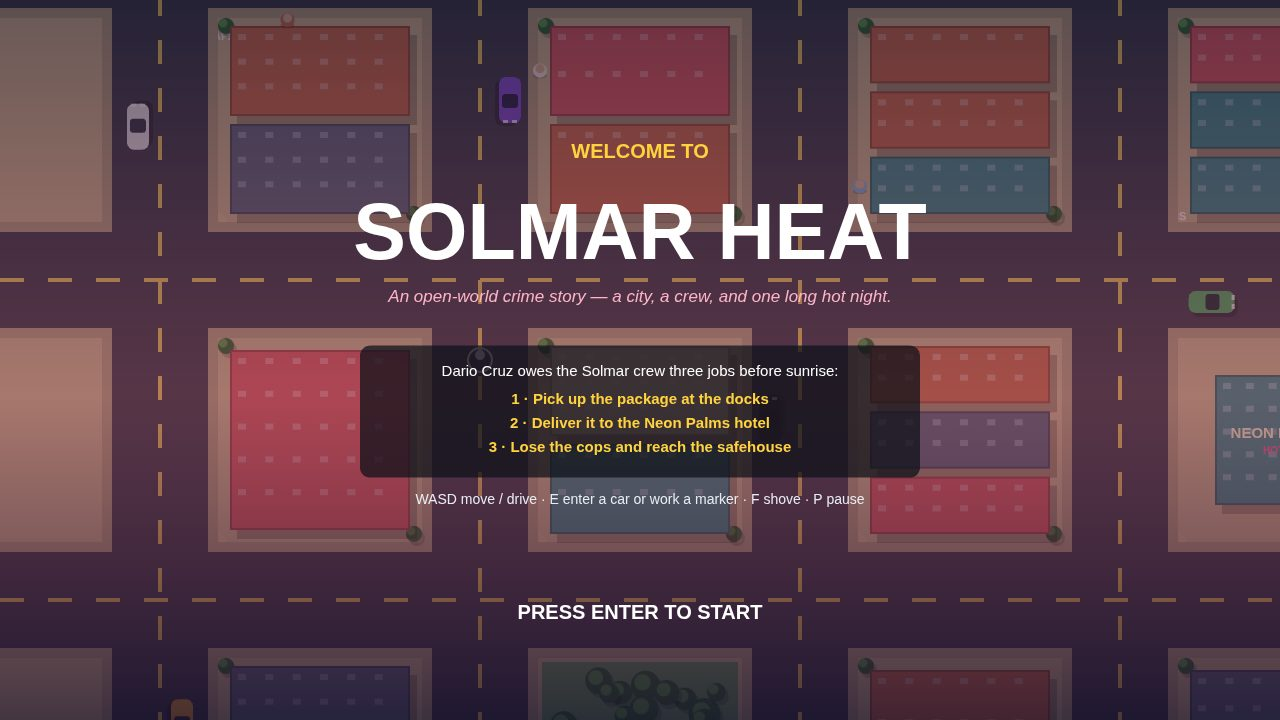
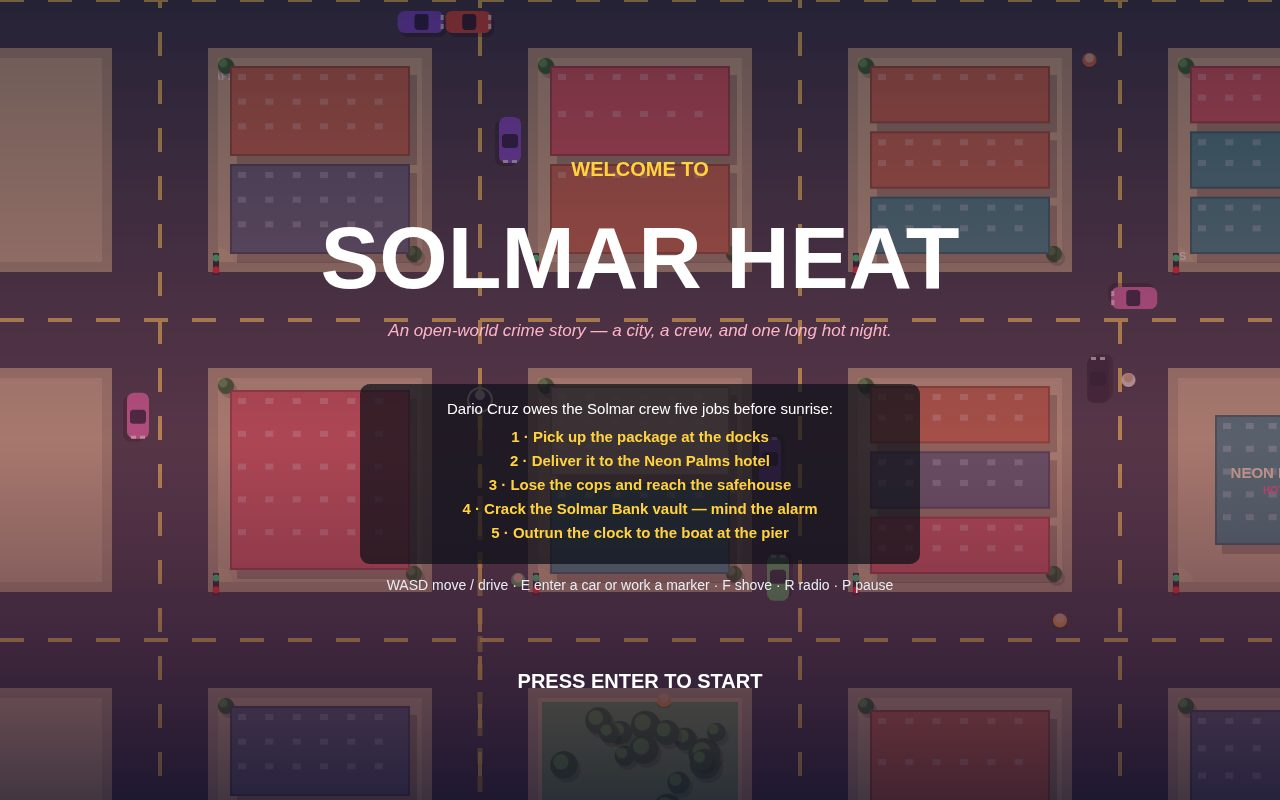
SOLMAR HEAT phase 2: fix mission route branch (nearestRoad has no .horizontal), five-jobs text, recapture all 4 shots

diff --git a/game/src/render.js b/game/src/render.js
@@ -52,9 +52,9 @@ export function missionRoutePoints(state) {
     let mid = ROAD_AXES_H[0];
     for (const axis of ROAD_AXES_H) if (Math.abs(axis - ePoint.y) < Math.abs(mid - ePoint.y)) mid = axis;
     points.push({ x: s.axis, y: mid }, { x: e.axis, y: mid });
-  } else if (s.vertical && e.horizontal) {
+  } else if (s.vertical && !e.vertical) {
     points.push({ x: s.axis, y: e.axis });
-  } else if (s.horizontal && e.vertical) {
+  } else if (!s.vertical && e.vertical) {
     points.push({ x: e.axis, y: s.axis });
   } else {
     // Both roads run east-west: cross on the avenue nearest the target.
@@ -561,7 +561,7 @@ export function createRenderer(canvas) {
     ctx.fillText(state.completed ? 'JOB DONE' : mission.title, 24, 100);
     ctx.fillStyle = '#ffffff';
     ctx.font = `13px ${BODY_FONT}`;
-    const text = state.completed ? 'All three jobs finished. Solmar is yours — keep driving.' : mission.text;
+    const text = state.completed ? 'All five jobs finished. Solmar is yours — keep driving.' : mission.text;
     wrapText(text, 24, 118, 306, 16);
     if (state.nearTarget && !state.completed && !state.vaultCracking) {
       ctx.fillStyle = '#ffd23e';
